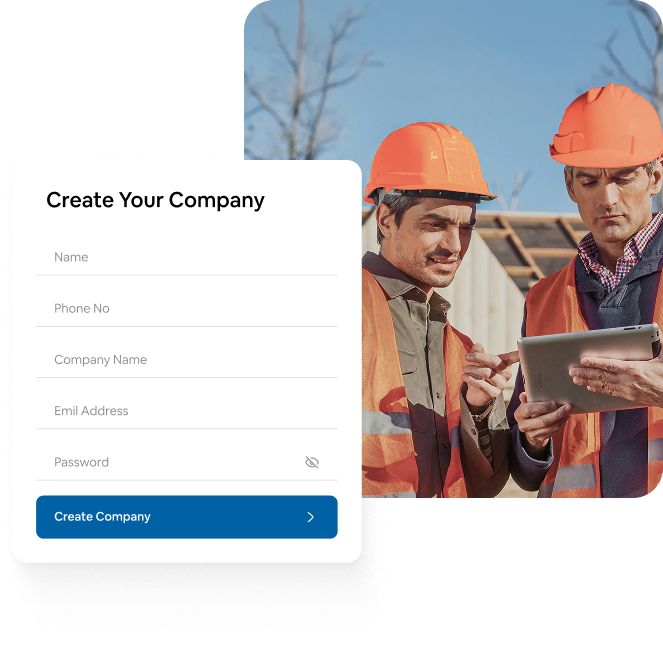
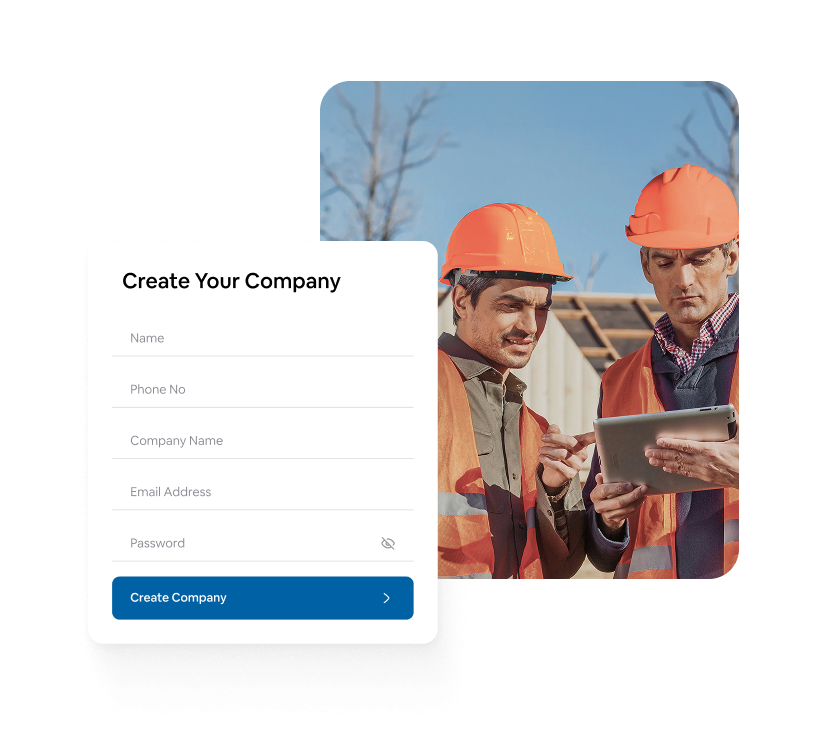
Changes 4

diff --git a/components/the-tools-section.jsx b/components/the-tools-section.jsx
@@ -48,7 +48,7 @@ export default function TheTosolsSection() {
             >
               <div className="relative w-full max-w-md">
                 <img
-                  src="/Images/OCET.png"
+                  src="/Images/OCET.svg"
                   alt="Organize Your Company & Empower Your Team"
                   width={400}
                   height={400}